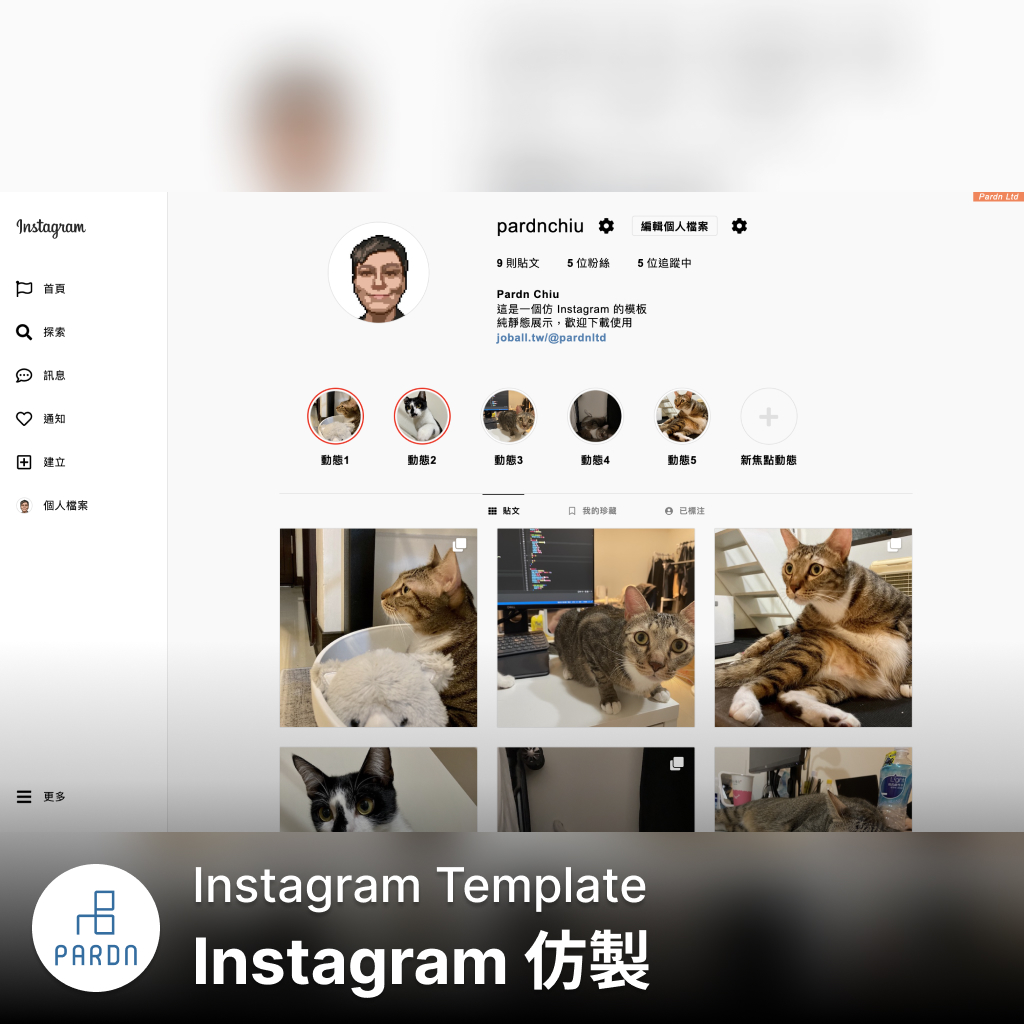
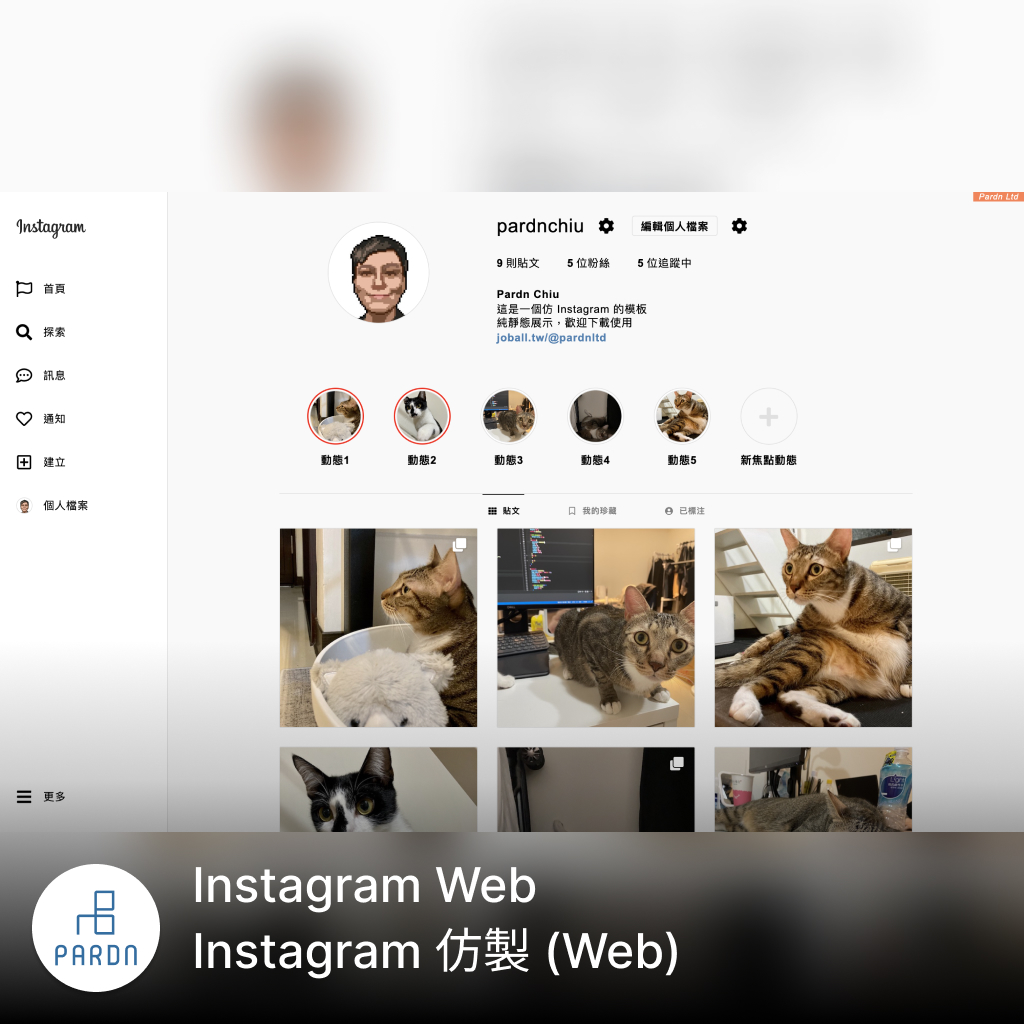
202305061139

Changed region(s): [[0.1875, 0.8438, 0.6562, 1.0]]

diff --git a/README.md b/README.md
@@ -1,43 +1,36 @@
-# Instagram Template 仿製模板
-
-*介面為 2022/10 版本*
-
-- [Github.io](https://pardnchiu.github.io/instagram-template-202210/)
-- [Github.com](https://github.com/pardnchiu/instagram-template-202210/)
-- [MIT LICENSE](./LICENSE)
-- Html, Css/Sass, Javascript
-- [Wiki](https://zh.m.wikipedia.org/zh-tw/File:Instagram_logo.svg)
-- [Font Awesome 5](https://fontawesome.com/v5/search)
-- [Userpics](https://userpics.craftwork.design)
+![Instagram 仿製 (Web) - Pardn Chiu 邱敬幃](./image/2-1.jpg)
 
 ***
 
-### Pardn Chiu 邱敬幃
+# Instagram 仿製 (Web)
 
-- [Joball](https://joball.tw/@pardnltd)
-- [Linkedin](https://www.linkedin.com/in/pardnchiu/)
-- [Line@](http://lin.ee/Gtcb5kc)
+- 介面為 2022/10 版本
+- Html, Css / Sass, Javascript, [LOGO](https://zh.m.wikipedia.org/zh-tw/File:Instagram_logo.svg), [Font Awesome 5](https://fontawesome.com/v5/search), [Userpics](https://userpics.craftwork.design)
+- Pardn Chiu 邱敬幃
+- [https://joball.tw/@pardnltd](https://joball.tw/@pardnltd)
+- [https://www.linkedin.com/in/pardnchiu](https://www.linkedin.com/in/pardnchiu)
+- [http://lin.ee/Gtcb5kc](http://lin.ee/Gtcb5kc)
 
 ***
 
 | Instagram | Sample |
 | :-: | :-: |
 |  首頁 |  首頁 |
-| ![1](image/preview/instagram1.png) | ![1](image/preview/sample1.png) |
+| ![](image/preview/instagram1.png) | ![Instagram 仿製 (Web) - Pardn Chiu 邱敬幃](image/preview/sample1.png) |
 | 限時動態 | 限時動態 |
-| ![7](image/preview/instagram8.png) | ![7](image/preview/sample8.png) |
+| ![](image/preview/instagram8.png) | ![Instagram 仿製 (Web) - Pardn Chiu 邱敬幃](image/preview/sample8.png) |
 | 搜尋 | 搜尋 |
-| ![2](image/preview/instagram2.png) | ![2](image/preview/sample2.png) |
+| ![](image/preview/instagram2.png) | ![Instagram 仿製 (Web) - Pardn Chiu 邱敬幃](image/preview/sample2.png) |
 | 通知 |  通知 |
-| ![3](image/preview/instagram3.png) | ![3](image/preview/sample3.png) |
+| ![](image/preview/instagram3.png) | ![Instagram 仿製 (Web) - Pardn Chiu 邱敬幃](image/preview/sample3.png) |
 | 個人頁 | 個人頁 |
-| ![4](image/preview/instagram4.png) | ![4](image/preview/sample4.png) |
+| ![](image/preview/instagram4.png) | ![Instagram 仿製 (Web) - Pardn Chiu 邱敬幃](image/preview/sample4.png) |
 | 彈出式貼文 | 彈出式貼文 |
-| ![5](image/preview/instagram5.png) | ![5](image/preview/sample5.png) |
+| ![](image/preview/instagram5.png) | ![Instagram 仿製 (Web) - Pardn Chiu 邱敬幃](image/preview/sample5.png) |
 | 單頁貼文 | 單頁貼文 |
-| ![6](image/preview/instagram6.png) | ![6](image/preview/sample6.png) |
+| ![](image/preview/instagram6.png) | ![Instagram 仿製 (Web) - Pardn Chiu 邱敬幃](image/preview/sample6.png) |
 | 訊息 | 訊息 |
-| ![7](image/preview/instagram7.png) | ![7](image/preview/sample7.png) |
+| ![](image/preview/instagram7.png) | ![Instagram 仿製 (Web) - Pardn Chiu 邱敬幃](image/preview/sample7.png) |
 
 ***
 
